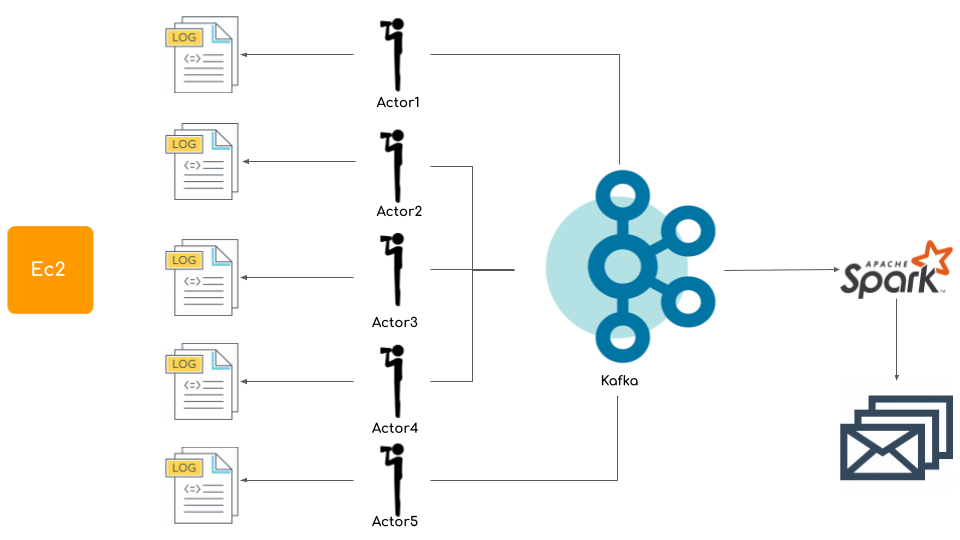
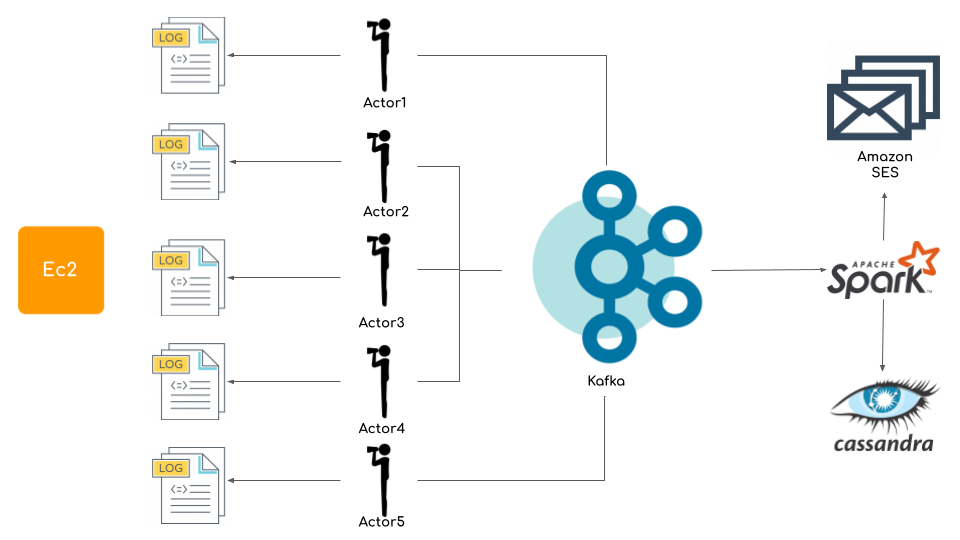
[ADD]: architecture

diff --git a/README.md b/README.md
@@ -38,13 +38,19 @@ We created a playlist in order to make the videos straightforward and divided by
 
 https://www.youtube.com/playlist?list=PLfVw8NwC6k6n98mxJDiFBDzHKwUklbhW0
 
-## LogFileGenerator
 
-The first project, logGenerator, provides an extension of the log generator coded by Professor Mark.
+## Project architecture
+
 
 We have design the overall architecture following this schema
 
 ![alt text](docs/architecture.png)
+
+![alt text](docs/architecture2.png)
+
+## LogFileGenerator
+
+The first project, logGenerator, provides an extension of the log generator coded by Professor Mark.
 
 All the instances of the logGenerator will pack their own data, that are generated over multiple days, into a single log file. 
 
@@ -467,6 +473,8 @@ https://us-central1-nuklex-app.cloudfunctions.net/logDataFunction
  For the purpose of the project we limit the data retrieval at the first 20 logs.
 
  In order to run the dashboard first you have to install all the project dependencies with NPM. 
+
+ First install NPM from the official website https://www.npmjs.com/
  
  Run from the root directory of the project
 
